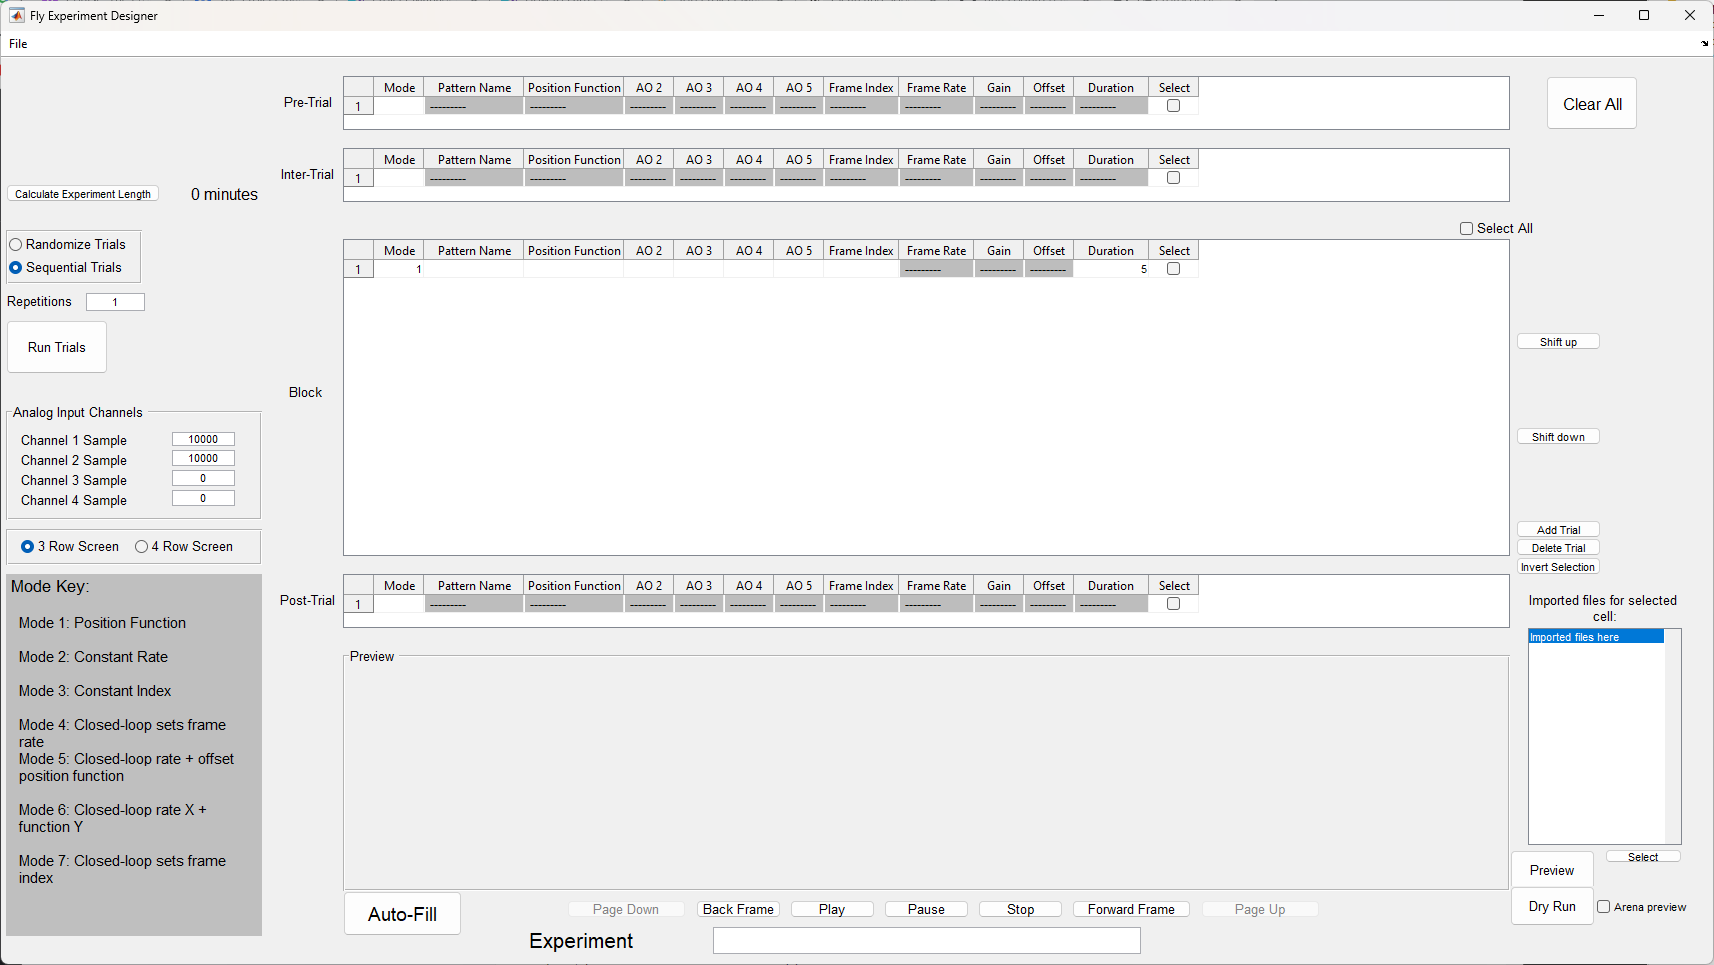
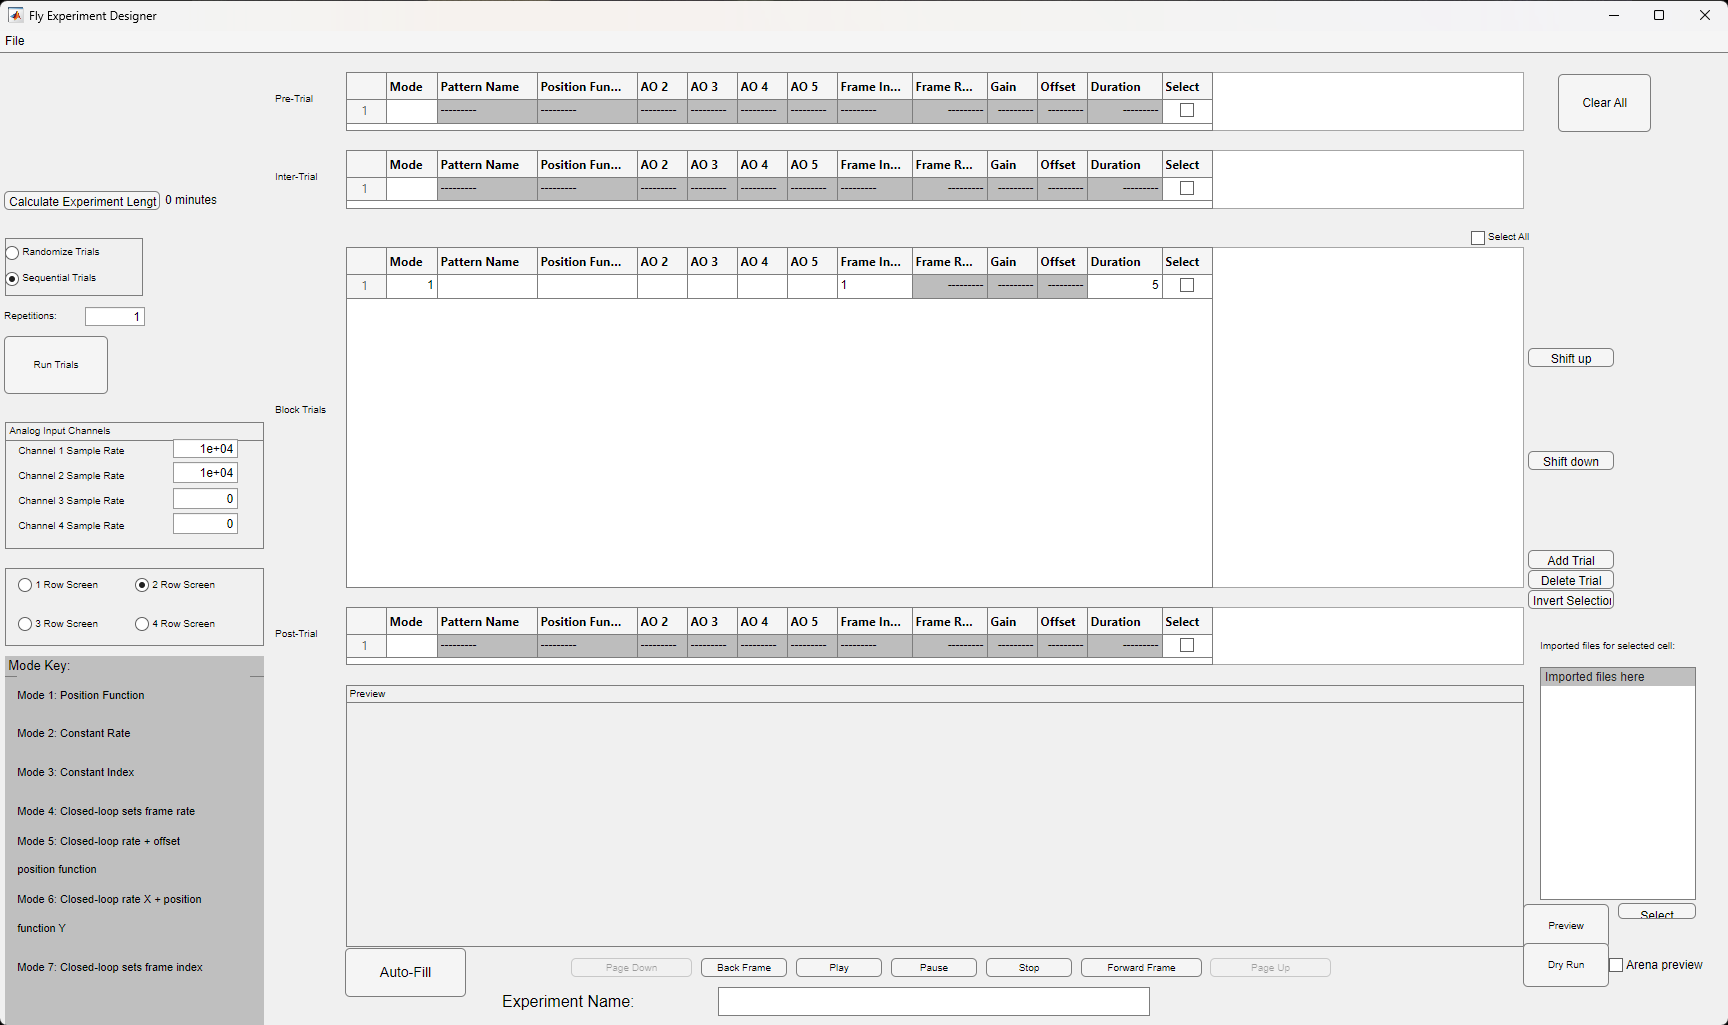
Updated documentation to reflect changes, updated Conductor labels to generalize from TDMS to data.

diff --git a/G4_Protocol_Designer/support_files/classes/G4_conductor_view.m b/G4_Protocol_Designer/support_files/classes/G4_conductor_view.m
@@ -99,7 +99,7 @@ classdef G4_conductor_view < handle
                  'Position', [390, self.fig_size(4) - 305, 115, 85], 'ButtonPushedFcn', @self.end_early);
 
             settings_pan = uipanel(self.fig, 'Title', 'Settings', 'FontSize', 13, 'units', 'pixels', ...
-                'Position', [15, self.fig_size(4) - 215, 415, 200]);
+                'Position', [15, self.fig_size(4) - 215, 445, 200]);
             metadata_pan = uipanel(self.fig, 'Title', 'Metadata', 'units', 'pixels', ...
                 'FontSize', 13, 'Position', [settings_pan.Position(1) + settings_pan.Position(3) + 180, self.fig_size(4) - 305, 275, 305]);
             status_pan = uipanel(self.fig, 'Title', 'Status', 'FontSize', 13, 'units', 'pixels', ...
@@ -336,17 +336,17 @@ classdef G4_conductor_view < handle
                 'Position', [115, 153, 150, 18], 'ValueChangedFcn', @self.new_experiment_type);
 
             test_button = uibutton(settings_pan, 'Text', 'Run Test Protocol', ...
-                'Position', [290, 123, 120, 20], 'ButtonPushedFcn', @self.run_test_exp);
+                'Position', [320, 122, 120, 20], 'ButtonPushedFcn', @self.run_test_exp);
             
-            tdms_checkbox_label = uilabel(settings_pan, 'Text', 'Convert TDMS?', ...
-                'Position', [10, 123, 100, 15]);
+            tdms_checkbox_label = uilabel(settings_pan, 'Text', 'Convert to MATLAB?', ...
+                'Position', [10, 123, 115, 15]);
             self.convert_tdms_checkbox = uicheckbox(settings_pan, 'Value', self.con.model.convert_tdms, ...
-                'Position', [101, 123, 15, 15], 'ValueChangedFcn', @self.new_convert_tdms);
+                'Position', [126, 123, 15, 15], 'ValueChangedFcn', @self.new_convert_tdms);
             
             processing_checkbox_label = uilabel(settings_pan, 'Text', 'Processing?', ...
-                'Position', [120, 123, 75, 15]);
+                'Position', [150, 123, 67, 15]);
             self.processing_checkbox = uicheckbox(settings_pan, 'Value', self.con.model.do_processing, ...
-                'Position', [196, 123, 15, 15], 'ValueChangedFcn', @self.new_do_processing);
+                'Position', [218, 123, 15, 15], 'ValueChangedFcn', @self.new_do_processing);
             
             processing_filename_label = uilabel(settings_pan, 'Text', 'Processing Protocol:', ...
                 'Position', [10, 73, 115, 15]);
@@ -357,9 +357,9 @@ classdef G4_conductor_view < handle
             
             
             plotting_checkbox_label = uilabel(settings_pan, 'Text', 'Plotting?', ...
-                'Position', [215, 123, 55, 15]);
+                'Position', [245, 123, 50, 15]);
             self.plotting_checkbox = uicheckbox(settings_pan, 'Value', self.con.model.do_plotting, ...
-                'Position', [271, 123, 15, 15], 'ValueChangedFcn', @self.new_do_plotting);
+                'Position', [296, 123, 15, 15], 'ValueChangedFcn', @self.new_do_plotting);
             
             plotting_filename_label = uilabel(settings_pan, 'Text', 'Plotting Protocol:', ...
                 'Position', [10, 98, 115, 15]);
@@ -380,7 +380,7 @@ classdef G4_conductor_view < handle
                 'ValueChangedFcn', @self.new_num_attempts);
 
             combine_tdms_label = uilabel(settings_pan, 'Text', ...
-                'Combine multiple TDMS files into one?', 'Position', [10, 3, 210, 15]);
+                'Combine multiple data files into one?', 'Position', [10, 3, 210, 15]);
 
             self.combine_tdms_checkbox = uicheckbox(settings_pan, 'Value', ...
                 self.con.get_combine_tdms(), 'Position', [225, 3, 15, 15], ...

diff --git a/docs/protocol-designer.md b/docs/protocol-designer.md
@@ -31,15 +31,27 @@ If you already have a .g4p file saved and ready to run, you can open The [Experi
 
 ## Start the protocol designer
 
-In MATLAB open the file `G4_Experiment_Designer.m`, located in `G4_Display_Tools\G4_Protocol_Designer` and hit run. Alternatively, you can type `G4_Experiment_Designer` into the MATLAB command window and hit enter. This should open the "Fly Experiment Designer" in a Window that looks like this:
+In MATLAB open the file `G4_Experiment_Designer.m`, located in `G4_Display_Tools\G4_Protocol_Designer` and hit run. Alternatively, you can type `G4_Experiment_Designer` into the MATLAB command window and hit enter. 
+
+### G4 vs G4-1
+
+As of April, 2025, a new arena is being developed called G4-1. Since the Display Tools will need to work with both systems, there is now a pop up window when you first open the Designer asking you to select whether the experiment you're creating will be run on the G4 system or the G4-1 system. 
+
+![G4-1 Popup](assets/G41Popup.png){:.pop}
+
+A few things about the Designer will be different depending on which system you choose. This includes the number of screen rows available, which modes are allowed and which mode is the default, and the size of the pattern preview. Other features may be enabled or disabled depending on the system chosen. These differences are minor and do not affect the overall functioning or use of the Designer. The following documentation assumes G4 has been selected as the system, but will remain relevant if G4-1 is selected instead. 
+
+## The Designer
+
+Once you select your system, the "Fly Experiment Designer" will open in a Window that looks like this:
 
 ![Fly Protocol Designer main window](assets/protocol-designer_empty.png){:.pop}
 
 ## Check the size of the LED arena you are using
 
-LED screen arenas come in three row screens and four row screens. Which patterns you can use are determined by the screen size, so be sure to check what type of arena you're using.
+LED screen arenas come in different sizes. Which patterns you can use are determined by the screen size, so be sure to check what type of arena you're using. It may have 1, 2, 3, or 4 rows of panels.
 
-Notice the radio button at the center left of the application indicating _3 Row Screen_{:.gui-btn} or _4 Row Screen_{:.gui-btn}. Set this to the correct screen size that corresponds with your [hardware setup]({{site.baseurl}}/docs/g4_assembly.html) before doing anything else. This setting will become disabled as soon as you import a folder, so if it is incorrect when you import, you will need to restart the application.
+Notice the radio button at the center left of the application indicating _1 Row Screen_{:.gui-btn}, _2 Row Screen_{:.gui-btn}, _3 Row Screen_{:.gui-btn} or _4 Row Screen_{:.gui-btn}. Set this to the correct screen size that corresponds with your [hardware setup]({{site.baseurl}}/docs/g4_assembly.html) before doing anything else. This setting will become disabled as soon as you import a folder, so if it is incorrect when you import, you will need to restart the application. The default value when opening the Designer is set by whatever value is currently set in the `HHMI Panels Configuration.ini` file. 
 
 ## Verify your settings are correct
 
@@ -49,7 +61,7 @@ The next step after verifying your screen size is to verify your settings are co
 
 The first field in the settings panel reads _Configuration file location:_{:.gui-txt} If the path to the configuration file is incorrect, please update it by using the associated browse button or by typing the correct path into the field.
 
-Note: that if your configuration file location was incorrect, the Designer may have failed to open, and you may have gotten a matlab error indicating it could not find the configuration file. If this is the case, open the file `G4_Display_Tools\G4_Protocol_Designer_Settings.m` and replace the current configuration file path manually with the correct one. Please note that this file is set up like a text file - you are not setting a variable. Simply replace the actual path text with the new path, without changing any spaces or other characters in the file.
+Note: that if your configuration file location was incorrect upon opening the Designer, you may have gotten a warning in your matlab command window that says `Warning: A filepath from your settings file could not be found. Check settings for accuracy.` If you see this warning, it is imperative that you update these settings before going any further.
 {:.warning}
 
 Note too that the Designer will make changes to the configuration file based on your selections when creating an experiment. Depending on where your configuration file is saved, you may need admin privileges on the computer to make these edits. If you get an error along the lines of `Error using fileread. Could not open file HHMI Panels Configuration.ini`, please make sure your account is able to make changes to the configuration file. An easy way to test this is to open the configuration file separately in a text editor and try to save a change.
@@ -57,7 +69,7 @@ Note too that the Designer will make changes to the configuration file based on 
 
 ## Run, Plotting, and Processing
 
-The next three fields are paths to your default run protocol file, processing file, and plotting file. A default run protocol is provided with the G4 software, but if you'd like to learn exactly what the run protocol does and how to create your own, please see the tutorial [Create a Run Protocol](experiment-conductor_run-protocol_tutorial.md).
+The next three fields are paths to your default run protocol file, processing file, and plotting file. Several run protocols are provided with the G4 software, but if you'd like to learn exactly what the run protocol does and how to create your own, please see the tutorial [Create a Run Protocol](experiment-conductor_run-protocol_tutorial.md).
 
 Plotting and Processing refers to settings files dictating how you want your experimental data to be handled after the experiment. If you have not created these settings files, please see [Data Analysis](data-handling_analysis.md).
 
@@ -121,7 +133,7 @@ The conditions make up the majority of your experiment. Other parameters include
 
 This section will describe in detail how to create an experiment, but if you would like more detailed instructions or run into issues not addressed in this section, please see these tutorials on [creating a condition](protocol-designer_create-condition_tutorial.md) and [creating an experiment](protocol-designer_design-experiment_tutorial.md).
 
-You can start creating conditions using the files imported in the previous step. The easiest starting point is to hit the _Auto-Fill_{:.gui-btn} button. This will create a block trial for every pattern imported, as well as create a pre-trial, inter-trial, and post-trial using the first pattern. Each trial will default to mode 1 and automatically pair a position function and one analog output function to each pattern (if they exist). Durations default to double the length of the position function. Hitting _Auto-Fill_{:.gui-btn} will produce something like this:
+You can start creating conditions using the files imported in the previous step. The easiest starting point is to hit the _Auto-Fill_{:.gui-btn} button. This will create a block trial for every pattern imported, as well as create a pre-trial, inter-trial, and post-trial using the first pattern. Each trial will default to mode 1 (unless you are using the G4-1 system, in which case the default mode is 2) and automatically pair a position function and one analog output function to each pattern (if they exist). Durations default to double the length of the position function. Hitting _Auto-Fill_{:.gui-btn} will produce something like this:
 
 ![After Auto-fill](assets/protocol-designer_after_auto-fill.png "Main window of the experiment designer after hitting the Auto-Fill button"){:.pop}
 

diff --git a/docs/experiment-conductor.md b/docs/experiment-conductor.md
@@ -17,6 +17,9 @@ To open this application directly from the [G4 Designer](protocol-designer.md), 
 
 If the Designer is not open, there is no need to open it. You can open the file `G4_Display_Tools\G4_Protocol_Designer\G4_Experiment_Conductor.m` in MATLAB and hit _Run_{:.gui-btn}, or type `G4_Experiment_Conductor` into the matlab command window and hit enter, to open the Conductor directly.
 
+Note: If you open the file `G4_Display_Tools\G4_Protocol_Designer\G4_Experiment_Conductor.m` you may see that a number is being passed into the function `run_con = G4_conductor_controller();`. The number being passed in represents the system being used, 0 for G4 and 1 for G4-1. Currently, G4 is the default so 0 is passed into this function. If you would like to run an experiment on the G4-1 system, you'll need to either change the 0 to a 1, or erase the input all together. If no input is provided, a pop up window will ask you which system you're using before the Conductor opens. 
+{:.info}
+
 The window that opens should look something like this:
 
 ![Experiment Conductor](assets/conductor-empty.png){:.pop}
@@ -117,7 +120,7 @@ Also beneath this will be the total time the experiment is expected to take.
 
 # Data Monitoring
 
-In the Data Monitoring Panel you'll find three plots as well as some labels. _Last trial avg WBF:_{:.gui-txt} will display, at the end of each trial, your fly's average wing beat frequency for that trial. Note that the items in the Data Monitoring panel will only update if you are using the run protocol called `G4_default_run_protocol_streaming.m`.
+In the Data Monitoring Panel you'll find three plots as well as some labels. _Last trial avg WBF:_{:.gui-txt} will display, at the end of each trial, your fly's average wing beat frequency for that trial. Note that the items in the Data Monitoring panel will only update if you are using a run protocol with `Streaming` in its name.
 
 There are three axes visible in this panel.
 
